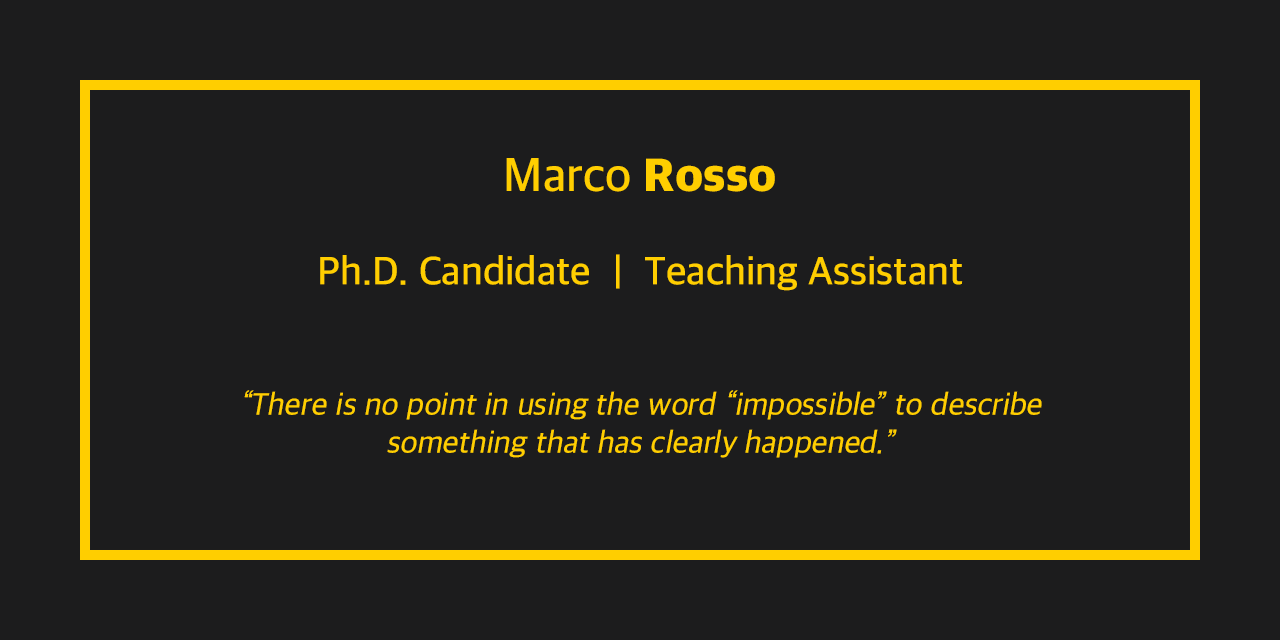
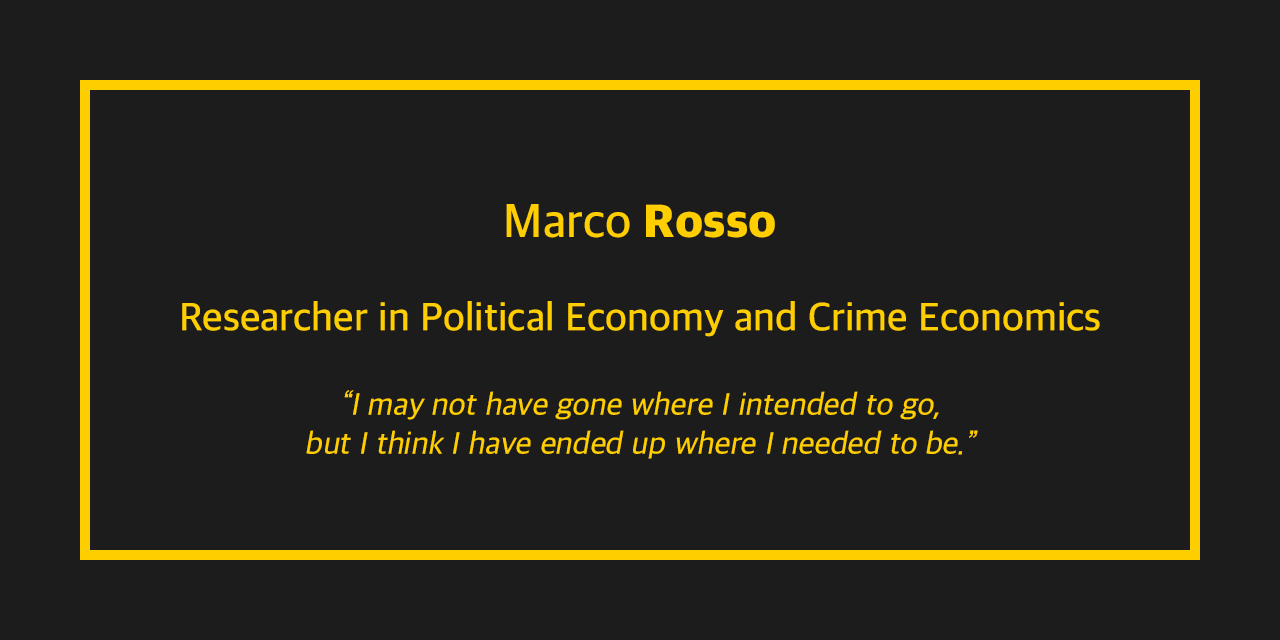
2026-02-25: 10 modifiche
- Revise about page with current roles and projects
- Revise about page with updated academic information
- Update subtitle formatting in about.md (x2)
- Update teaching and project involvement details
- Fix formatting of subtitle in about.md
- Update about.md
- Remove job title from about page
- Refactor about page content for clarity and conciseness
- Add files via upload

Changed region(s): [[0.125, 0.4062, 0.875, 0.5312], [0.1875, 0.5938, 0.8125, 0.7188], [0.375, 0.25, 0.625, 0.375]]

diff --git a/_pages/it/about.md b/_pages/it/about.md
@@ -5,7 +5,9 @@ title: su&nbsp;di me
 permalink: /
 subtitle: >
     <div style="margin-top: -0.75rem;">
-        <p style="font-weight: 500;">Professore&nbsp;a&nbsp;Contratto | Tutor&nbsp;Didattico</p>
+    <p style="font-weight: 500;">
+        Professore&nbsp;a&nbsp;Contratto | Tutor&nbsp;Didattico
+    </p>
     </div>
     <div style="margin: 0; padding: 0; position: relative; margin-top: 1.5rem;">
         <!-- First row: University icon and department name -->
@@ -19,8 +21,7 @@ subtitle: >
             <i class="fa-solid fa-school fa-fw" style="color: var(--global-theme-color); font-size: 10pt;"></i>
         </div>
         <div style="padding-left: 22px; line-height: 14pt; color: var(--global-theme-color); font-size: 10pt; margin-top: 2pt;">
-            <a href="https://dse.unibo.it">Dipartimento di Scienze Economiche</a> e 
-            <a href="https://scienzeaziendali.unibo.it/it/index.html">Dipartimento di Scienze Aziendali</a>
+            <a href="https://dse.unibo.it">Dipartimento di Scienze Economiche</a>
         </div>
         <!-- Second row: Location icon and actula location -->
         <div style="position: relative; font-size: 10pt; margin-top: 8pt; margin-bottom: 15px; line-height: 14pt;">
@@ -64,13 +65,11 @@ La mia <b style="color: $white-color;"><a href="/it/ricerca/">ricerca</a></b> si
 <b style="color: $white-color;">Economia Sperimentale</b> ed 
 <b style="color: $white-color;">Economia Comportamentale</b>, con un interesse specifico per l’interazione tra istituzioni e comportamento individuale in contesti reali.
 
-Attualmente sono sul <i>Job Market</i> alla ricerca di posizioni accademiche e di ricerca. Puoi scaricare il mio <b style="color: $white-color;"><a href="/assets/pdf/papers/Marco_Rosso_Crime_Perception_and_Voting_Behavior.pdf" target="_blank" rel="noopener noreferrer" class="external">Job Market Paper</a></b> e il <b style="color: $white-color;"><a href="/assets/pdf/it/[Marco%20Rosso]%20Curriculum%20Vitae_it.pdf" target="_blank" rel="noopener noreferrer" class="external">CV</a></b> qui.
+Attualmente sono sul <i>Job Market</i> alla ricerca di posizioni accademiche e di ricerca. È possibile scaricare il mio <b style="color: $white-color;"><a href="/assets/pdf/papers/Marco_Rosso_Crime_Perception_and_Voting_Behavior.pdf" target="_blank" rel="noopener noreferrer" class="external">Job Market Paper</a></b> e il <b style="color: $white-color;"><a href="/assets/pdf/it/[Marco%20Rosso]%20Curriculum%20Vitae_it.pdf" target="_blank" rel="noopener noreferrer" class="external">CV</a></b> qui.
 
-Nel frattempo, sto lavorando al lancio della <a href="https://appminuto.it/login" target="_blank" rel="noopener noreferrer" class="external">MinUTo App</a><sup><a href="#fn1" id="ref1">1</a></sup> a supporto della genitorialità consapevole, in continuità con le interviste online che ho condotto per il <a href="https://site.unibo.it/minuto/en" target="_blank" rel="noopener noreferrer" class="external">Progetto MinUTo</a>. Parallelamente, svolgo temporaneamente il ruolo di <b style="color: $white-color;">Assistente di Ricerca</b> presso l’<b style="color: $white-color;">Università di Napoli Federico II</b> nell’ambito del progetto <i>"Organized crime, political connections and firms' performance"</i>, conducendo un’analisi delle risposte a domande aperte raccolte dai partecipanti con l’obiettivo di identificare e categorizzare le motivazioni emergenti e distinguere tra profili di rispondenti mediante tecniche di text analysis.
+Nel frattempo, <b style="color: $white-color;"><a href="/it/didattica/">insegno</a></b> <b style="color: $white-color;">Microeconomia</b>, <b style="color: $white-color;">Introduzione all’Economia dell’UE</b>, e svolgo il ruolo di <b style="color: $white-color;">Tutor Didattico</b> per <b style="color: $white-color;">Economia Politica</b> e <b style="color: $white-color;">Python per Economisti</b> presso il <b style="color: $white-color;">Dipartimento di Scienze Economiche</b>, il <b style="color: $white-color;">Dipartimento di Management</b>, e il <b style="color: $white-color;">Dipartimento di Scienze Politiche e Sociali</b> dell’<b style="color: $white-color;">Università di Bologna</b>. Allo stesso tempo, ho contribuito al lancio dell'<a href="https://appminuto.it/login" target="_blank" rel="noopener noreferrer" class="external">App MinUTo</a><sup><a href="#fn1" id="ref1">1</a></sup> a supporto della genitorialità consapevole, nell’ambito del <a href="https://site.unibo.it/minuto/it" target="_blank" rel="noopener noreferrer" class="external">Progetto MinUTo</a>, per il quale ho condotto interviste online.
 
-Inoltre, <b style="color: $white-color;"><a href="/it/didattica/">insegno</a></b> <b style="color: $white-color;">Microeconomia</b> e svolgo il ruolo di <b style="color: $white-color;">Tutor Didattico</b> per i corsi di <b style="color: $white-color;">Economia Industriale</b>, <b style="color: $white-color;">Econometria</b>, <b style="color: $white-color;">Economia Politica</b> e <b style="color: $white-color;">Python per Economisti</b> presso il <b style="color: $white-color;">Dipartimento di Scienze Economiche</b> e il <b style="color: $white-color;">Dipartimento di Scienze Aziendali</b> dell’<b style="color: $white-color;">Università di Bologna</b>.
-
-Infine, organizzo i <b style="color: $white-color;">DSE Afterwork Drinks</b>, un incontro informale mensile in cui si discute di ricerca, vita accademica e di tutto ciò che sta nel mezzo — dalle carriere e le conferenze ai film, alla musica e alle preoccupazioni quotidiane — con l’obiettivo di favorire una comunità di dipartimento rilassata e collaborativa.
+Organizzo inoltre i <b style="color: $white-color;">DSE Afterwork Drinks</b>, un incontro informale mensile in cui discutiamo di ricerca, vita accademica e di tutto ciò che sta nel mezzo — dalle carriere e le conferenze ai film, alla musica e alle preoccupazioni quotidiane — con l’obiettivo di favorire una comunità dipartimentale rilassata e collaborativa.
 
 <div style="margin-top:1rem;"></div>
 <hr style="border:0; border-top:0.5px solid !important;">

diff --git a/_pages/es/about.md b/_pages/es/about.md
@@ -19,8 +19,7 @@ subtitle: >
             <i class="fa-solid fa-school fa-fw" style="color: var(--global-theme-color); font-size: 10pt;"></i>
         </div>
         <div style="padding-left: 22px; line-height: 14pt; color: var(--global-theme-color); font-size: 10pt; margin-top: 2pt;">
-            <a href="https://dse.unibo.it/en">Departamento de Economía</a> y 
-            <a href="https://scienzeaziendali.unibo.it/en/index.html">Departamento de Management</a>
+            <a href="https://dse.unibo.it/en">Departamento de Economía</a>
         </div>
         <!-- Second row: Location icon and actula location -->
         <div style="position: relative; font-size: 10pt; margin-top: 8pt; margin-bottom: 15px; line-height: 14pt;">
@@ -66,11 +65,9 @@ Mi <b style="color: $white-color;"><a href="/es/investigación/">investigación<
 
 Actualmente me encuentro en el <i>Job Market</i> en busca de posiciones académicas y de investigación. Podés descargar mi <b style="color: $white-color;"><a href="/assets/pdf/papers/Marco_Rosso_Crime_Perception_and_Voting_Behavior.pdf" target="_blank" rel="noopener noreferrer" class="external">Job Market Paper</a></b> y mi <b style="color: $white-color;"><a href="/assets/pdf/es/[Marco%20Rosso]%20Curriculum%20Vitae_es.pdf" target="_blank" rel="noopener noreferrer" class="external">CV</a></b> acá.
 
-Mientras tanto, estoy trabajando en el lanzamiento de la <a href="https://appminuto.it/login" target="_blank" rel="noopener noreferrer" class="external">MinUTo App</a><sup><a href="#fn1" id="ref1">1</a></sup> en apoyo a la parentalidad consciente, en continuidad con las entrevistas online que realicé para el <a href="https://site.unibo.it/minuto/en" target="_blank" rel="noopener noreferrer" class="external">Proyecto MinUTo</a>. Al mismo tiempo, desempeño temporalmente el rol de <b style="color: $white-color;">Asistente de Investigación</b> en la <b style="color: $white-color;">Universidad de Nápoles Federico II</b> en el proyecto <i>"Organized crime, political connections and firms' performance"</i>, realizando un análisis de respuestas a preguntas abiertas recolectadas entre los participantes con el objetivo de identificar y categorizar motivaciones emergentes y distinguir entre perfiles de respondentes mediante técnicas de análisis de texto.
+Mientras tanto, <b style="color: $white-color;"><a href="/es/docencia/">dicto</a></b> <b style="color: $white-color;">Microeconomía</b>, <b style="color: $white-color;">Introducción a la Economía de la UE</b>, y me desempeño como <b style="color: $white-color;">Asistente de Docencia</b> en <b style="color: $white-color;">Economía Política</b> y <b style="color: $white-color;">Python para Economistas</b> en el <b style="color: $white-color;">Department of Economics</b>, el <b style="color: $white-color;">Department of Management</b>, y el <b style="color: $white-color;">Department of Political and Social Sciences</b> de la <b style="color: $white-color;">University of Bologna</b>. Al mismo tiempo, contribuí al lanzamiento de la <a href="https://appminuto.it/login" target="_blank" rel="noopener noreferrer" class="external">App MinUTo</a><sup><a href="#fn1" id="ref1">1</a></sup> en apoyo a la parentalidad consciente, en el marco del <a href="https://site.unibo.it/minuto/en" target="_blank" rel="noopener noreferrer" class="external">MinUTo Project</a>, para el cual realicé entrevistas online.
 
-Además, <b style="color: $white-color;"><a href="/es/docencia/">dicto</a></b> <b style="color: $white-color;">Microeconomía</b> y me desempeño como <b style="color: $white-color;">Asistente de Docencia</b> en <b style="color: $white-color;">Economía Industrial</b>, <b style="color: $white-color;">Econometría</b>, <b style="color: $white-color;">Economía Política</b> y <b style="color: $white-color;">Python para Economistas</b> tanto en el <b style="color: $white-color;">Departamento de Economía</b> como en el <b style="color: $white-color;">Departamento de Management</b> de la <b style="color: $white-color;">University of Bologna</b>.
-
-Por último, organizo los <b style="color: $white-color;">DSE Afterwork Drinks</b>, un encuentro informal mensual en el que hablamos de investigación, vida académica y todo lo que queda en el medio — desde carreras y conferencias hasta cine, música y preocupaciones cotidianas — con el objetivo de fomentar una comunidad departamental relajada y de apoyo.
+También organizo los <b style="color: $white-color;">DSE Afterwork Drinks</b>, un encuentro informal mensual en el que conversamos sobre investigación, vida académica y todo lo que queda en el medio — desde carreras y conferencias hasta cine, música y preocupaciones cotidianas — con el objetivo de fomentar una comunidad departamental relajada y de apoyo.
 
 <div style="margin-top:1rem;"></div>
 <hr style="border:0; border-top:0.5px solid !important;">

diff --git a/_pages/en/about.md b/_pages/en/about.md
@@ -21,9 +21,7 @@ subtitle: >
             <i class="fa-solid fa-school fa-fw" style="color: var(--global-theme-color); font-size: 10pt;"></i>
         </div>
         <div style="padding-left: 22px; line-height: 14pt; color: var(--global-theme-color); font-size: 10pt; margin-top: 2pt;">
-            <a href="https://dse.unibo.it/en">Department of Economics</a> | 
-            <a href="https://scienzeaziendali.unibo.it/en/index.html">Department of Management</a> | 
-            <a href="https://dsps.unibo.it/en">Department of Political and Social Sciences</a>
+            <a href="https://dse.unibo.it/en">Department of Economics</a>
         </div>
         <!-- Second row: Location icon and actul location temp: <a href="https://goo.gl/maps/1icot9p1g97AWCD37">Piazza Scaravilli 2, 40126, Bologna, Italy</a>-->
         <div style="position: relative; font-size: 10pt; margin-top: 8pt; margin-bottom: 15px; line-height: 14pt;">
@@ -67,11 +65,9 @@ My <b style="color: $white-color;"><a href="/research/">research</a></b> focuses
 
 I am currently on the <i>Job Market</i> seeking academic and research positions. You can download my <b style="color: $white-color;"><a href="/assets/pdf/papers/Marco_Rosso_Crime_Perception_and_Voting_Behavior.pdf" target="_blank" rel="noopener noreferrer" class="external">Job Market Paper</a></b> and <b style="color: $white-color;"><a href="/assets/pdf/en/[Marco%20Rosso]%20Curriculum%20Vitae.pdf" target="_blank" rel="noopener noreferrer" class="external">CV</a></b> here.
 
-Meanwhile, I am working on the rollout of the <a href="https://appminuto.it/login" target="_blank" rel="noopener noreferrer" class="external">MinUTo App</a><sup><a href="#fn1" id="ref1">1</a></sup> in support of mindful parenting, in continuity with the online interviews I conducted for the <a href="https://site.unibo.it/minuto/en" target="_blank" rel="noopener noreferrer" class="external">MinUTo Project</a>. At the same time, I am temporarily serving as a <b style="color: $white-color;">Research Assistant</b> at the <b style="color: $white-color;">University of Naples Federico II</b> on the project <i>"Organized crime, political connections and firms' performance"</i>, conducting an analysis of open-ended responses collected from participants with the goal of identifying and categorizing emerging motivations and distinguishing between respondent profiles using text analysis techniques.
+Meanwhile, I <b style="color: $white-color;"><a href="/teaching/">teach</a></b> <b style="color: $white-color;">Microeconomics</b>, <b style="color: $white-color;">Introduction to Economics of the EU</b>, and serve as a <b style="color: $white-color;">Teaching Assistant</b> for <b style="color: $white-color;">Political Economy</b> and <b style="color: $white-color;">Python for Economists</b> at the <b style="color: $white-color;">Department of Economics</b>, the <b style="color: $white-color;">Department of Management</b>, and the <b style="color: $white-color;">Department of Political and Social Sciences</b> at the <b style="color: $white-color;">University of Bologna</b>. At the same time, I contributed to the rollout of the <a href="https://appminuto.it/login" target="_blank" rel="noopener noreferrer" class="external">MinUTo App</a><sup><a href="#fn1" id="ref1">1</a></sup> in support of mindful parenting, within the <a href="https://site.unibo.it/minuto/en" target="_blank" rel="noopener noreferrer" class="external">MinUTo Project</a>, for which I conducted online interviews.
 
-Moreover, I <b style="color: $white-color;"><a href="/teaching/">teach</a></b> <b style="color: $white-color;">Microeconomics</b> and serve as a <b style="color: $white-color;">Teaching Assistant</b> for <b style="color: $white-color;">Industrial Economics</b>, <b style="color: $white-color;">Econometrics</b>, <b style="color: $white-color;">Political Economy</b>, and <b style="color: $white-color;">Python for Economists</b> at both the <b style="color: $white-color;">Department of Economics</b> and at the <b style="color: $white-color;">Department of Management</b> at the <b style="color: $white-color;">University of Bologna</b>.
-
-Finally, I organize the <b style="color: $white-color;">DSE Afterwork Drinks</b>, a monthly informal gathering where we talk about research, academic life, and everything in between—from careers and conferences to films, music, and everyday worries—with the aim of fostering a relaxed and supportive departmental community.
+I also organize the <b style="color: $white-color;">DSE Afterwork Drinks</b>, a monthly informal gathering where we talk about research, academic life, and everything in between—from careers and conferences to films, music, and everyday worries—with the aim of fostering a relaxed and supportive departmental community.
 
 <div style="margin-top:1rem;"></div>
 <hr style="border:0; border-top:0.5px solid !important;">
